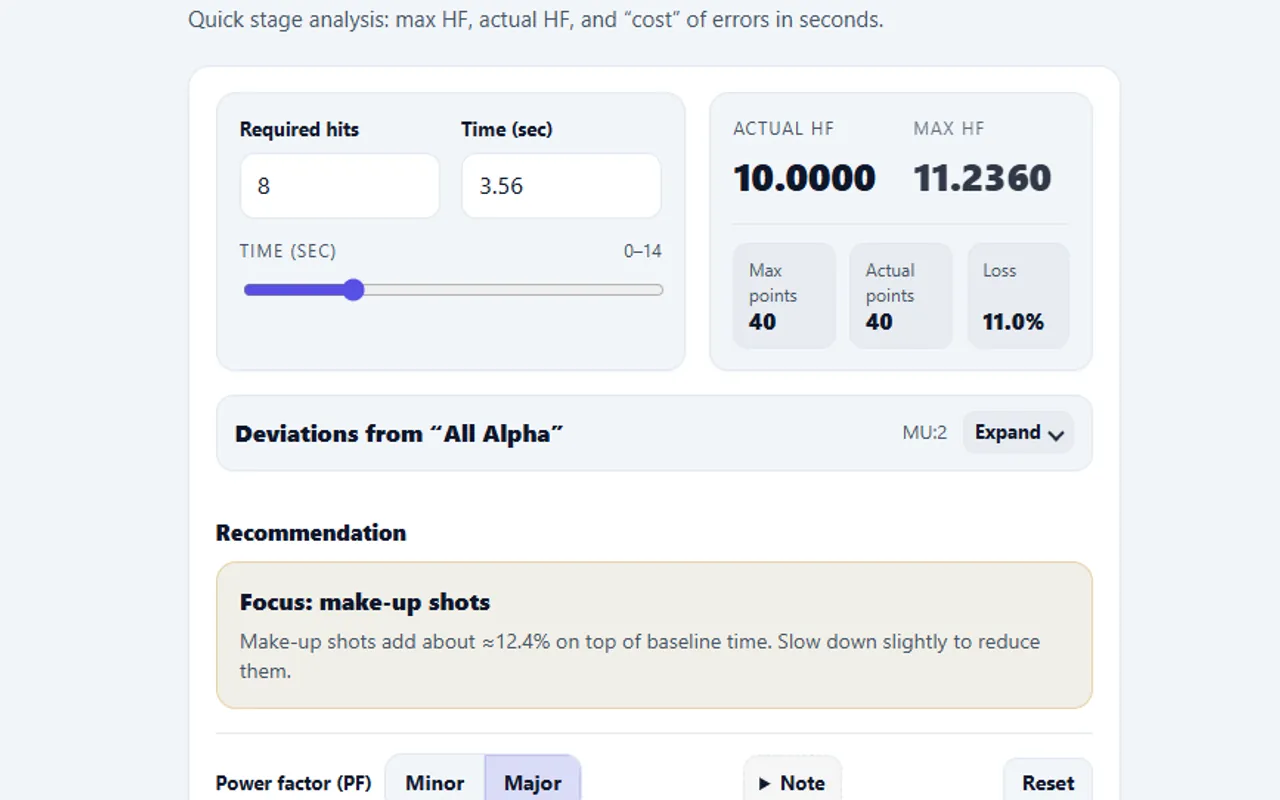
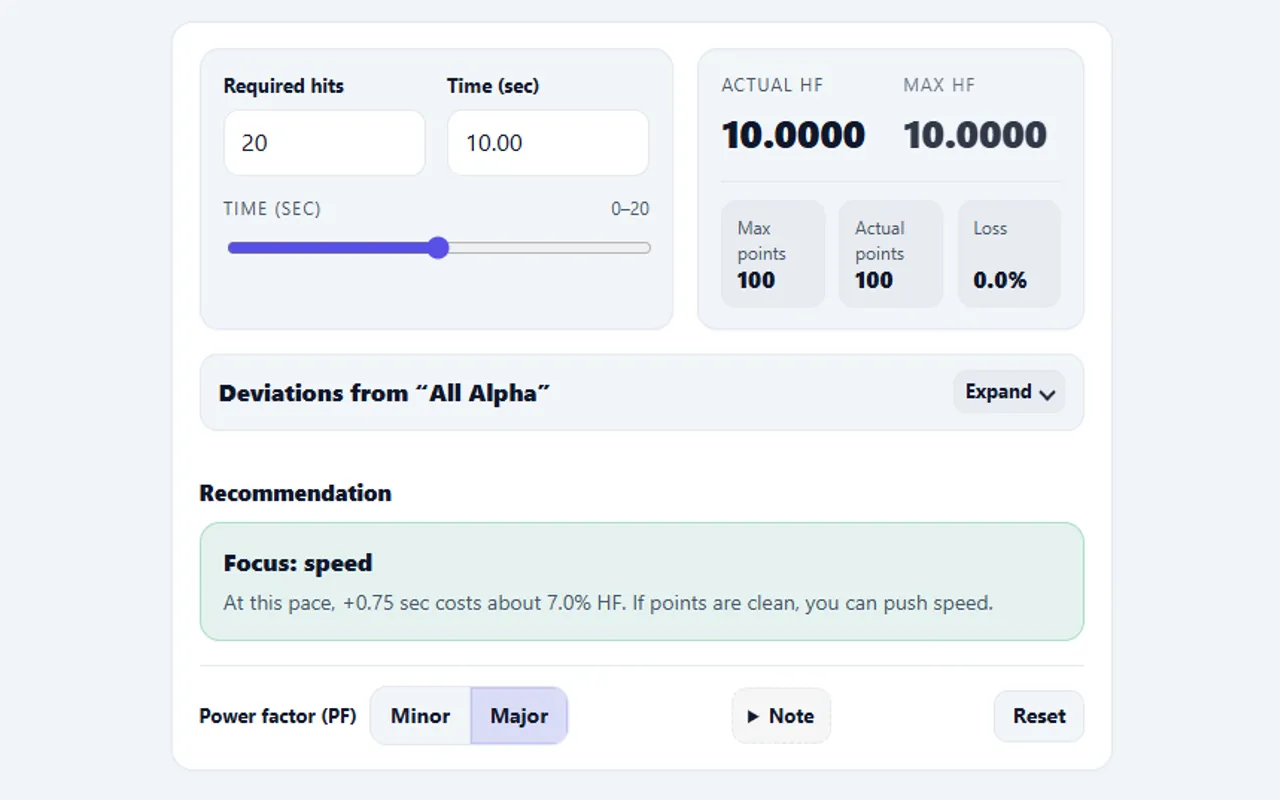
feat(portal): refresh Hit Factor card preview from calculator screenshot
Regenerate hit-factor.webp + hit-factor.png (contain + #f1f5f9) from new HF UI
asset. Add previewFallback in PortalHome for Hit Factor. Update PORTAL_PREVIEWS
§2.2 and §5 file list.

Made-with: Cursor

diff --git a/src/portal/PortalHome.tsx b/src/portal/PortalHome.tsx
@@ -127,6 +127,7 @@ export function PortalHome() {
         <ProductCard
           to="/hit-factor"
           preview="/portal-previews/hit-factor.webp"
+          previewFallback="/portal-previews/hit-factor.png"
           previewAlt={`${p.hitFactorTitle} — ${p.hitFactorDesc}`}
           title={p.hitFactorTitle}
           description={p.hitFactorDesc}

diff --git a/docs/PORTAL_PREVIEWS.md b/docs/PORTAL_PREVIEWS.md
@@ -46,12 +46,13 @@
     UI пішла в mobile-режим, або зняти у Shooter's view, де її не видно).
 - **Поверхня:** `Grass` — найбільш «нейтральна» зеленка під будь-яку тему.
 
-### 2.2. Hit Factor (`hit-factor.webp`)
-- Калькулятор з **уже введеними** прикладовими значеннями
-  (хіти, час, штрафи) — щоб у кадрі читалися числа `HF actual` / `HF max` /
-  блок `focus`.
-- Ширина вікна — десктопна (`≥ 1024 px`), щоб блоки не стискались у вузькі
-  колонки.
+### 2.2. Hit Factor (`hit-factor.webp` + `hit-factor.png` fallback)
+- Калькулятор HF із прикладовими значеннями (**hits**, **time**, слайдер часу), блоками
+  **Actual HF / Max HF**, підсумками (**Max points**, **Actual points**, **Loss**),
+  секцією **Deviations**, **Recommendation** та перемикачем **Minor/Major** — типовий
+  робочий кадр для прев’ю на головній.
+- **Генерація:** `portal-preview-prepare.mjs … hit-factor contain "#f1f5f9"` — повний UI без
+  обрізання країв; прев’ю на картці через **`object-fit: contain`** у `PortalHome.css`.
 
 ### 2.3. RO Helper (`ro-helper.webp` + `ro-helper.png` fallback)
 - Екран **категорій** обраної дисципліни (наприклад **Shotgun**): заголовок дисципліни,
@@ -168,6 +169,7 @@ public/portal-previews/
   stage-builder.webp      # 1280×800, 16:10
   stage-builder.svg       # <picture>-fallback / архів мокапа
   hit-factor.webp         # 1280×800, 16:10
+  hit-factor.png          # fallback для `<picture>` у `PortalHome`
   ro-helper.webp          # 1280×800, 16:10
   ro-helper.png           # fallback для `<picture>` у `PortalHome` (якщо WebP недоступний)
 ```
